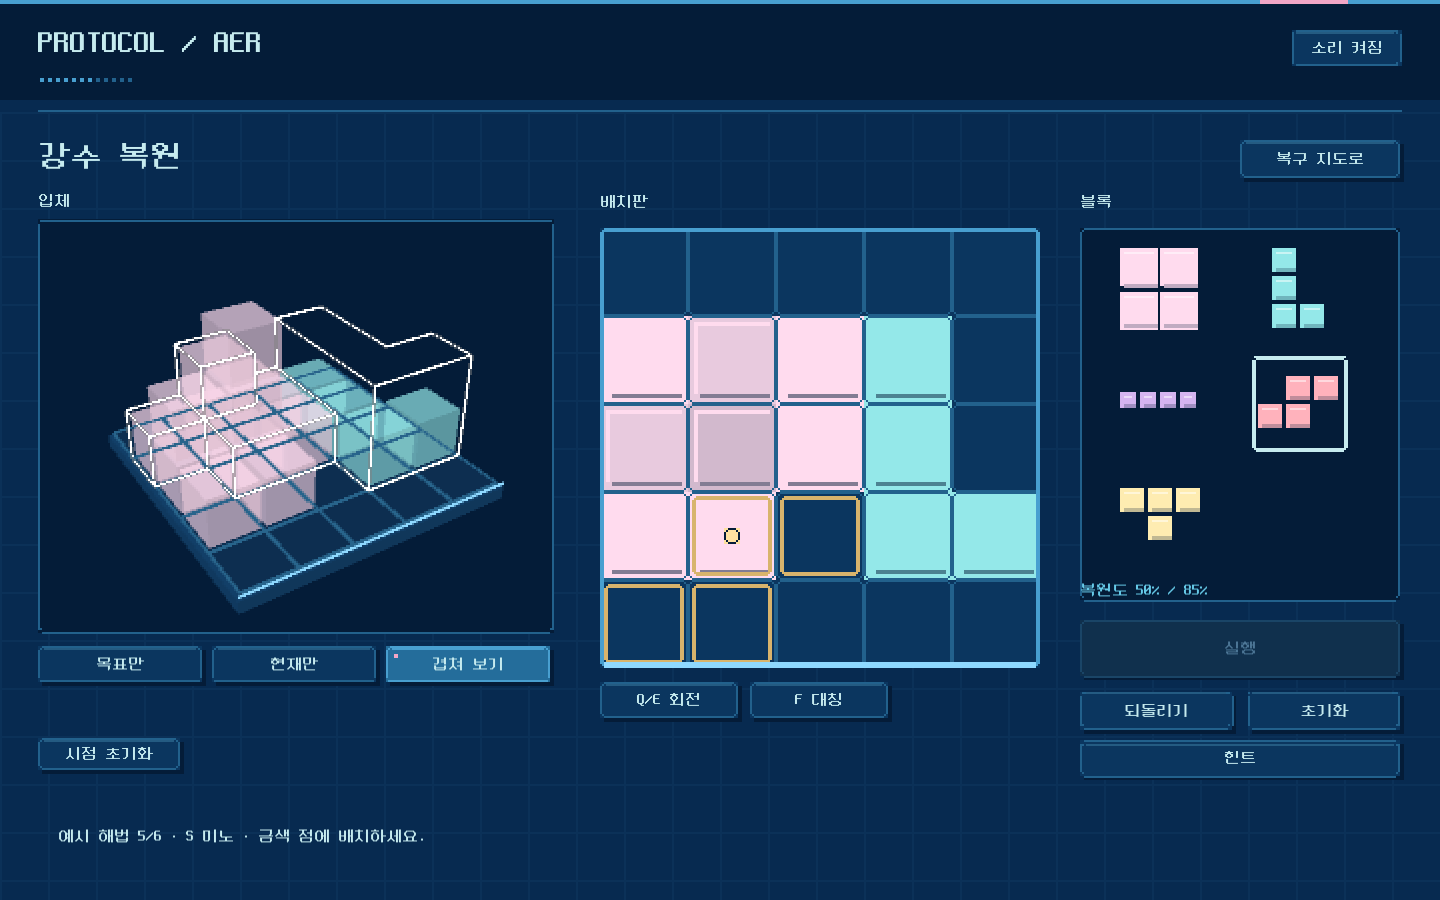
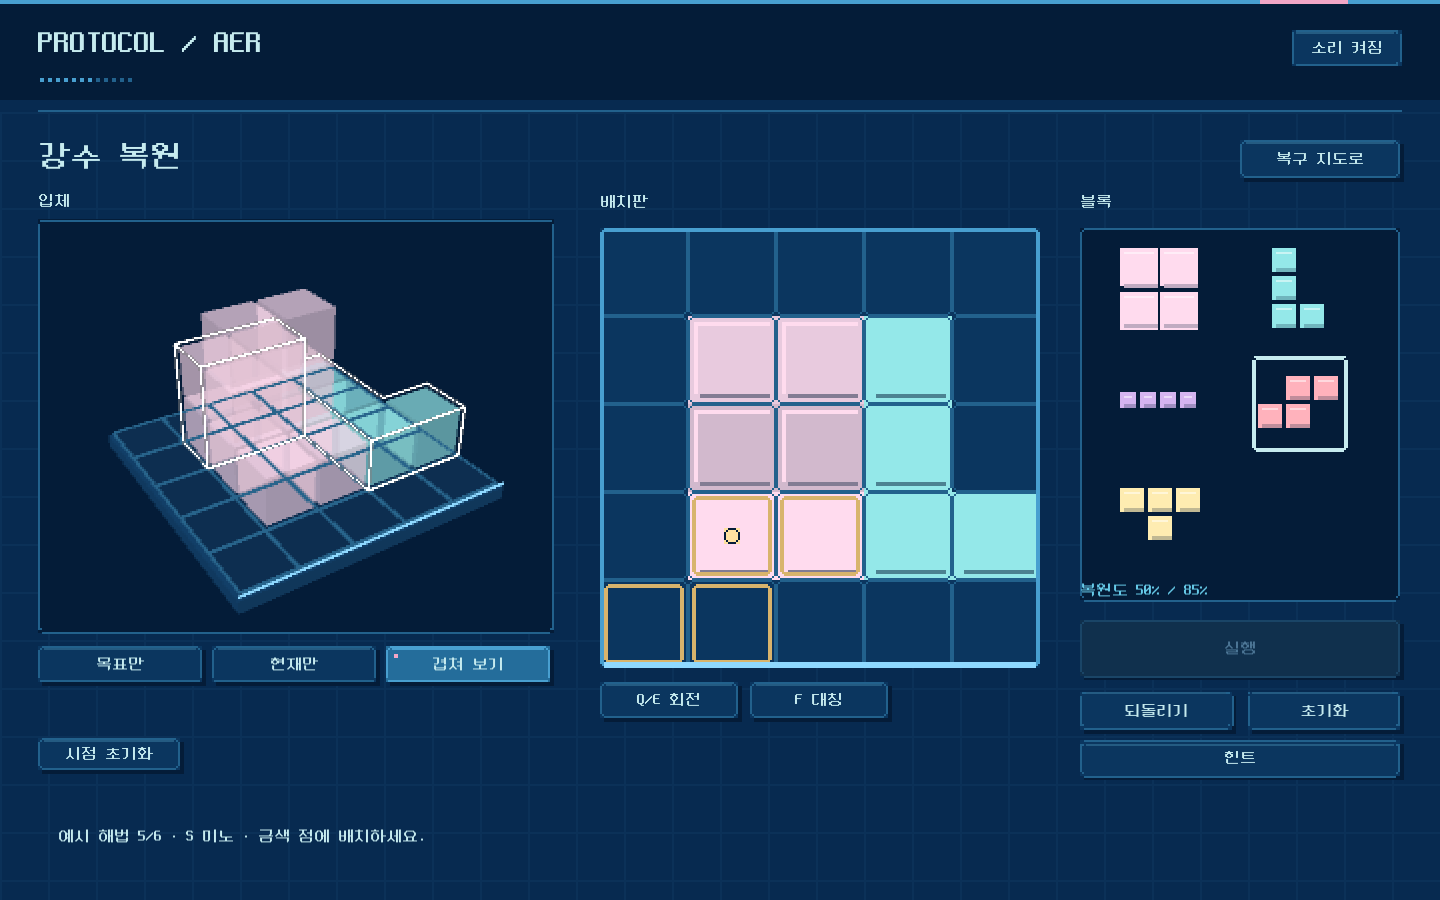
Shape final weather around a simple minus-two cut without extra gates

diff --git a/Assets/Editor/AerBuilder.cs b/Assets/Editor/AerBuilder.cs
@@ -115,19 +115,19 @@ public static class AerBuilder
         if(forward.OutputOf(forward.Pieces[0])!=-2||forward.OutputOf(forward.Pieces[3])!=2)throw new Exception("Duplicate modifiers must apply only once");
         foreach(var voxel in forward.Voxels())if(voxel.Action!=4)throw new Exception("Voxel source color lost");
         // Learning stages isolate the new effect; the finale combines two
-        // spatially separate effects without forcing amplified subtraction.
+        // simple -2 carving operation with meaningful target improvement.
         foreach(int index in new[]{10,11,12})
         {
             var stage=AerStages.All[index];var board=new EveningBoard();
             foreach(var step in stage.Solution)board.TryPlace(step.Action,step.Cells(),out _);
-            int invertedCount=0,amplifiedCount=0;
+            int invertedCount=0,amplifiedCount=0,combinedCount=0;
             foreach(var piece in board.Pieces)
             {
                 int output=board.OutputOf(piece);
-                if(output==-2)throw new Exception("Introductory late solutions must not require combined S/T");
+                if(output==-2){combinedCount++;if(index!=12)throw new Exception("Only the finale teaches combined S/T");}
                 if(output<0)invertedCount++;if(output==2)amplifiedCount++;
             }
-            if(invertedCount!=(index==11?0:1)||amplifiedCount!=(index==10?0:1))throw new Exception("Each new effect must have one readable subject");
+            if(invertedCount!=(index==11?0:1)||amplifiedCount!=(index==11?1:0)||combinedCount!=(index==12?1:0))throw new Exception("Each new effect must have one readable subject");
             if(stage.Supply!=(index==12?6:4))throw new Exception("Late solution complexity increased");
             foreach(int action in index==12?new[]{1,0}:new[]{stage.RequiredAction})
             {
@@ -135,6 +135,12 @@ public static class AerBuilder
                 if(stage.Complete(without))throw new Exception("Removing a taught effect must not solve the target");
             }
         }
+        // Alternative -1-only reconstruction is valid: the finale rewards -2
+        // through a shorter six-piece solution, never an extra clear condition.
+        var finale=AerStages.All[12];var alternative=new EveningBoard();
+        foreach(var step in finale.Solution)if(step.Action!=0)alternative.TryPlace(step.Action,step.Cells(),out _);
+        alternative.TryPlace(4,new AerStage.Step(4,1,2).Cells(),out _);
+        if(finale.Similarity(alternative)!=100||!finale.Complete(alternative))throw new Exception("Alternative finale solution must remain valid");
         var swatches=new[]{"FEECB1","FFB2BC","D4B4EF","94E8E9","FFDBEE"};
         for(int i=0;i<5;i++)if(ColorUtility.ToHtmlStringRGB(EveningBoard.Colors[i])!=swatches[i])throw new Exception("Palette mismatch");
         Debug.Log("AER_RULES_PASSED: 13 solutions; whole-mino inversion/amplification; -2 combinations; no stacking/chaining; order independence; source colors; unlocks and required effects");

diff --git a/Assets/Scripts/AerStages.cs b/Assets/Scripts/AerStages.cs
@@ -72,9 +72,9 @@ public static class AerStages
         // T alone doubles one O. The other two O pieces form a readable step;
         // simultaneous S/T inversion is available but never required here.
         new AerStage("환경 제어실","NAME-08","",M(4,0,1),M(4,2,1),M(4,1,2),M(0,0,0)),
-        // Reuse the S notch and add a separately amplified L. Each operator
-        // affects just one ordinary mino; no -2 combination or rotation needed.
-        new AerStage("강수 복원","WEATHER-02","복원도 85% 이상",M(4,0,1),M(4,1,1),M(4,0,2),M(3,3,1),M(1,0,3),M(0,2,0))
+        // Double an O stack, then carve its lower row with one -2 O.
+        // S and T share one footprint; six pieces, no rotations required.
+        new AerStage("강수 복원","WEATHER-02","복원도 85% 이상",M(4,1,1),M(4,1,1),M(3,3,1),M(4,1,2),M(1,0,3),M(0,0,3))
     };
     public static readonly int[] BuildingStages={3,4,5,6,8,9,10,11};
     static AerStage.Step M(int action,int x,int y,int turns=0)=>new AerStage.Step(action,x,y,turns);

diff --git a/docs/Development.md b/docs/Development.md
@@ -8,9 +8,9 @@ Animated title → terminal → optional three-step tutorial → radar map with 
 
 Targets are generated from valid example solutions. Names require exact height matches; weather stages require at least 85% volume intersection/union similarity. Unlocked module types have unlimited supply. A newly introduced type must change the resulting height map in its debut name stage. O appears first, L from name region 3, I from 5, S from 7 and T from 8. O/L/I normally output +1 to each of their four cells. S and T are zero-volume operators: any shared cell reverses or doubles the entire ordinary mino, including cells outside the operator footprint. Together they produce -2 per ordinary cell. Duplicate effects apply once and do not chain through other minos. All contributions are summed before clamping negative final heights to zero, independently of placement order. System notices introduce the effects and board badges show affected ordinary minos. There is one active ??? radar label; weather unlocks at the two required milestones.
 
-Name targets add offset overlaps, turned L shapes and crossing I shapes while introducing one new effect at a time. Their example solutions use 3 / 4 / 3 / 4 / 4 / 5 / 6 / 7 placements, with at most three height levels. Weather targets combine wider footprints and four height levels (6 / 8 example placements). These are design guidelines, not placement limits or a claim about the shortest possible solution. Actual perceived difficulty still benefits from player testing. The three tutorial targets remain unchanged.
+Name targets add offset overlaps, turned L shapes and crossing I shapes while introducing one new effect at a time. Their example solutions use 3 / 4 / 3 / 4 / 4 / 5 / 4 / 4 placements, with at most three height levels. Weather targets use 6 / 6 example placements and maximum heights 4 / 2. These are design guidelines, not placement limits or a claim about the shortest possible solution. Actual perceived difficulty still benefits from player testing. The three tutorial targets remain unchanged.
 
-The eased Windway target contains 6 voxels and uses four unrotated O/S pieces; O/L/I alone cannot reproduce its non-multiple-of-four volume. The eighth name target uses four unrotated O/T pieces, teaching amplification without subtraction. The finale uses six unrotated pieces: S reverses one O and T amplifies a separate L. Targets have maximum heights 2, 3 and 2 respectively; no late reference solution requires -2 combinations. Tutorials, names 1-6 and the first weather target are unchanged.
+The eased Windway target contains 6 voxels and uses four unrotated O/S pieces; O/L/I alone cannot reproduce its non-multiple-of-four volume. The eighth name target uses four unrotated O/T pieces, teaching amplification without subtraction. The finale uses six unrotated pieces: two stacked positive O pieces and one L, then one O with S and T sharing the same footprint to carve at -2. Targets have maximum heights 2, 3 and 2 respectively. The final target naturally rewards a -2 cut through its two-layer profile; the reference solution uses six pieces. There is no additional completion gate: 85% similarity is sufficient, and a seven-piece -1-only alternative is explicitly regression-tested as valid. Tutorials, names 1-6 and the first weather target are unchanged.
 
 ## Controls
 
